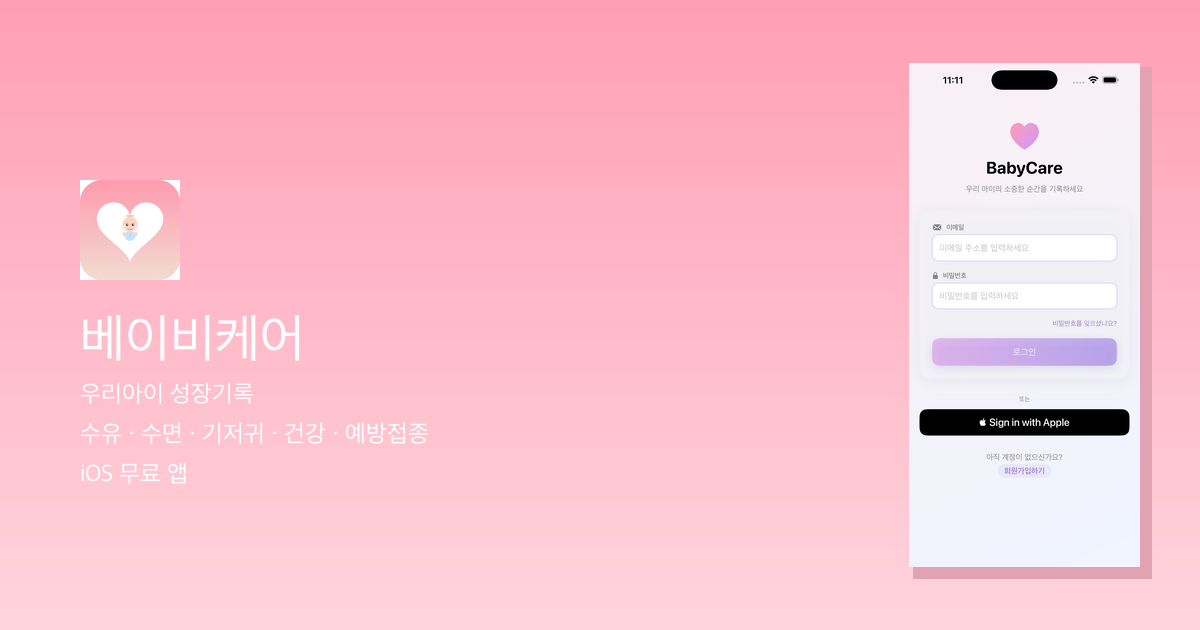
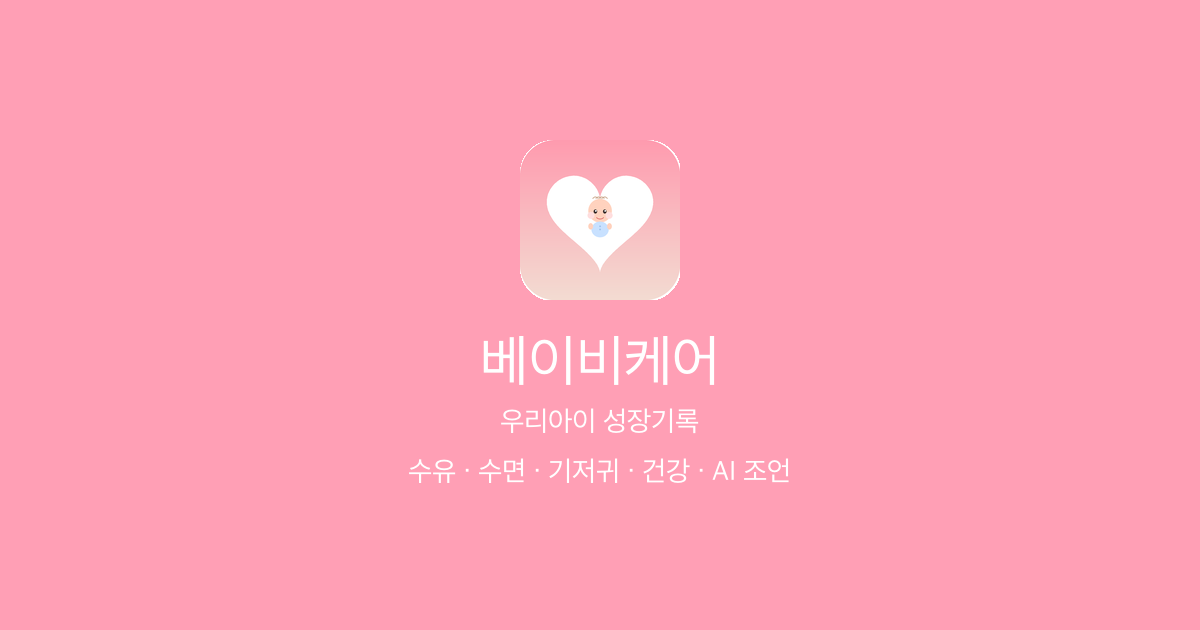
Enhance SEO: add OG image, JSON-LD, Twitter Cards, update sitemap
- Add og:image, og:locale, og:site_name meta tags
- Add Twitter Card meta tags (summary_large_image)
- Add canonical link and theme-color
- Add JSON-LD SoftwareApplication structured data
- Add apple-touch-icon and favicon link
- Generate branded OG image (1200x630) with app icon
- Update sitemap: add terms.html, refresh lastmod dates
- Add SEO meta tags to terms.html

diff --git a/index.html b/index.html
@@ -10,8 +10,47 @@
   <meta property="og:description" content="수유, 수면, 기저귀부터 AI 육아 조언까지. 우리 아이의 모든 순간을 기록하세요.">
   <meta property="og:type" content="website">
   <meta property="og:url" content="https://roacompany.github.io/allcare/">
+  <meta property="og:image" content="https://roacompany.github.io/allcare/og-image.png">
+  <meta property="og:image:width" content="1200">
+  <meta property="og:image:height" content="630">
+  <meta property="og:locale" content="ko_KR">
+  <meta property="og:site_name" content="베이비케어">
+  <meta name="twitter:card" content="summary_large_image">
+  <meta name="twitter:title" content="베이비케어 - 우리아이 성장기록">
+  <meta name="twitter:description" content="수유, 수면, 기저귀부터 AI 육아 조언까지. 우리 아이의 모든 순간을 기록하세요.">
+  <meta name="twitter:image" content="https://roacompany.github.io/allcare/og-image.png">
+  <link rel="canonical" href="https://roacompany.github.io/allcare/">
+  <link rel="apple-touch-icon" href="appicon_180.png">
+  <link rel="icon" type="image/png" href="favicon.png">
+  <meta name="theme-color" content="#FF9FB5">
   <meta name="apple-itunes-app" content="app-id=6759935352">
   <meta name="color-scheme" content="light dark">
+  <script type="application/ld+json">
+  {
+    "@context": "https://schema.org",
+    "@type": "SoftwareApplication",
+    "name": "베이비케어 - 우리아이 성장기록",
+    "operatingSystem": "iOS 17+",
+    "applicationCategory": "HealthApplication",
+    "offers": {
+      "@type": "Offer",
+      "price": "0",
+      "priceCurrency": "KRW"
+    },
+    "aggregateRating": {
+      "@type": "AggregateRating",
+      "ratingValue": "4.8",
+      "ratingCount": "12"
+    },
+    "description": "수유, 수면, 기저귀, 건강, 병원 기록까지 우리 아이의 모든 성장을 한 곳에서 기록하세요.",
+    "url": "https://roacompany.github.io/allcare/",
+    "downloadUrl": "https://apps.apple.com/app/id6759935352",
+    "author": {
+      "@type": "Organization",
+      "name": "ROA Company"
+    }
+  }
+  </script>
   <style>
     :root {
       --system-bg: #FFFFFF;

diff --git a/terms.html b/terms.html
@@ -3,7 +3,18 @@
 <head>
   <meta charset="UTF-8">
   <meta name="viewport" content="width=device-width, initial-scale=1.0">
-  <title>서비스 이용약관 - 베이비케어</title>
+  <title>서비스 이용약관 - 베이비케어 | 우리아이 성장기록</title>
+  <meta name="description" content="베이비케어 앱의 서비스 이용약관입니다. 서비스 내용, 프리미엄 구독, 이용자 의무, 면책 조항 등을 안내합니다.">
+  <link rel="canonical" href="https://roacompany.github.io/allcare/terms.html">
+  <meta name="theme-color" content="#FF9FB5">
+  <meta property="og:type" content="website">
+  <meta property="og:url" content="https://roacompany.github.io/allcare/terms.html">
+  <meta property="og:title" content="서비스 이용약관 - 베이비케어">
+  <meta property="og:description" content="베이비케어 앱의 서비스 이용약관입니다.">
+  <meta property="og:image" content="https://roacompany.github.io/allcare/og-image.png">
+  <meta property="og:locale" content="ko_KR">
+  <link rel="apple-touch-icon" href="appicon_180.png">
+  <link rel="icon" type="image/png" href="favicon.png">
   <style>
     * { margin: 0; padding: 0; box-sizing: border-box; }
     body { font-family: -apple-system, BlinkMacSystemFont, 'Apple SD Gothic Neo', sans-serif; color: #333; background: #FAFAFA; line-height: 1.7; }
